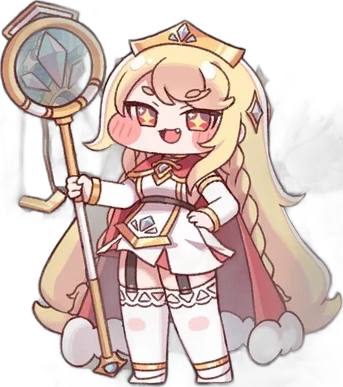
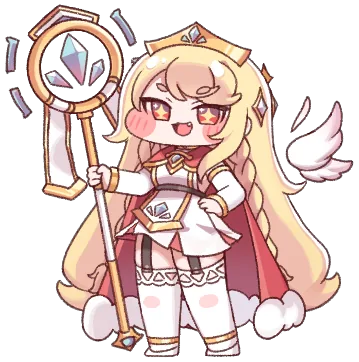
트릭컬 키 비교: 뷰어 스파인으로 사도·NPC 157명 그림과 게임 크기 기반 키 추정

diff --git a/games/trickcal-height/index.html b/games/trickcal-height/index.html
@@ -2,7 +2,7 @@
 <html lang="ko">
 <head>
 <meta charset="utf-8"><meta name="viewport" content="width=device-width,initial-scale=1">
-<title>트릭컬 사도 키 비교</title>
+<title>트릭컬 캐릭터 키 비교</title>
 <style>
 *{box-sizing:border-box}
 body{margin:0;font:15px/1.5 system-ui,"Malgun Gothic",sans-serif;background:#fff6e8;color:#3a2a1a}
@@ -10,8 +10,12 @@ header{padding:14px 16px;background:#ffcf6b;border-bottom:3px solid #e0a43a}
 h1{margin:0;font-size:22px}
 header p{margin:4px 0 0;font-size:13px}
 main{display:flex;flex-wrap:wrap;gap:16px;padding:16px}
-#side{flex:0 0 300px;background:#fff;border:2px solid #f0d3a0;border-radius:12px;padding:12px}
+#side{flex:0 0 320px;background:#fff;border:2px solid #f0d3a0;border-radius:12px;padding:12px}
 #side h2{font-size:16px;margin:4px 0 8px}
+#filt{display:flex;gap:6px;margin-bottom:6px}
+#filt input,#filt select{font:inherit;padding:5px;border:2px solid #f0d3a0;border-radius:8px;min-width:0}
+#filt input{flex:1}
+#list{max-height:430px;overflow-y:auto}
 .row{display:flex;align-items:center;gap:6px;padding:4px 0;border-bottom:1px dashed #f0d3a0}
 .row input[type=checkbox]{width:18px;height:18px}
 .row .nm{flex:1}
@@ -25,7 +29,7 @@ form label{grid-column:span 2;font-size:13px}
 #stage{flex:1 1 500px;background:#fff;border:2px solid #f0d3a0;border-radius:12px;padding:12px;min-width:300px}
 #controls{display:flex;gap:10px;align-items:center;flex-wrap:wrap;margin-bottom:8px}
 #controls button{font:inherit;padding:4px 10px;border:2px solid #f0d3a0;border-radius:8px;background:#fff;cursor:pointer}
-#board{position:relative;height:520px;overflow-x:auto;overflow-y:hidden;border-bottom:3px solid #8a6a40}
+#board{position:relative;height:560px;overflow-x:auto;overflow-y:hidden;border-bottom:3px solid #8a6a40}
 #grid{position:absolute;inset:0;pointer-events:none}
 .gl{position:absolute;left:0;right:0;border-top:1px dashed #e8dcc8;font-size:11px;color:#b09070;padding-left:2px}
 #people{position:absolute;left:44px;bottom:0;display:flex;align-items:flex-end;gap:18px;height:100%}
@@ -40,21 +44,23 @@ form label{grid-column:span 2;font-size:13px}
 </head>
 <body>
 <header>
-<h1>🍮 트릭컬 사도 키 비교</h1>
-<p>사도를 골라 나란히 세워 보세요. 키 숫자는 고칠 수 있고, 새 사도도 추가할 수 있어요. 그림 파일을 올리면 그 그림으로 세워 줘요.</p>
-<p style="font-size:11px;opacity:.7">사도 그림: 트릭컬 리바이브(EPIDGames) 사도 카드 그림, 나무위키에서 가져와 배경을 지웠어요. 팬 비교용이에요.</p>
+<h1>🍮 트릭컬 캐릭터 키 비교</h1>
+<p>사도·NPC를 골라 나란히 세워 보세요. 그림은 게임 속 크기 그대로라서 서로 크기 비교가 돼요. 키 숫자는 고칠 수 있고, 새 캐릭터도 추가할 수 있어요.</p>
+<p style="font-size:11px;opacity:.7">캐릭터 그림: 트릭컬 리바이브(EPIDGames) 로비 캐릭터를 <a href="https://viewer.dclnslde.com/">트릭컬 스파인 뷰어</a>의 파일로 그려 뽑았어요. 팬 비교용이에요.</p>
 </header>
 <main>
 <section id="side">
-  <h2>사도 목록</h2>
+  <h2>캐릭터 목록 <span class="tag" id="cnt"></span></h2>
+  <div id="filt"><input id="q" placeholder="이름 검색"><select id="grp"><option value="">전체</option><option>사도</option><option>NPC</option><option value="on">세운 것만</option><option value="mine">내가 추가한 것</option></select></div>
   <div id="list"></div>
+  <button id="alloff" style="margin-top:6px">모두 내리기</button>
   <form id="add">
-    <input id="nName" placeholder="이름 (예: 코미)" required>
+    <input id="nName" placeholder="새 캐릭터 이름" required>
     <input id="nH" type="number" min="10" max="400" step="0.1" placeholder="cm" required>
     <label>그림(선택): <input id="nImg" type="file" accept="image/*"></label>
     <button>+ 추가</button>
   </form>
-  <p class="note">'팬 추정' 표시: 트릭컬은 공식 키를 공개하지 않아서, 팬들이 게임 속 소품(총 길이 등)으로 계산한 값이에요(아카라이브·나무위키). 틀리면 숫자를 직접 고치세요. 바꾼 내용은 이 브라우저에 저장돼요.</p>
+  <p class="note">키는 전부 <b>추정</b>이에요. 트릭컬은 공식 키를 공개하지 않아서, 게임 속 캐릭터 크기(발끝~머리·모자·귀 꼭대기)를 재고, 팬들이 계산한 4명(에르핀 95·버터 96·네르 98·마요 101cm, 아카라이브·나무위키)에 맞춰 cm로 바꿨어요. 무기·뿔·머리장식이 위로 솟은 캐릭터는 실제보다 크게 나와요. 틀리면 숫자를 직접 고치세요(그림 크기도 따라 바뀌어요). 바꾼 내용은 이 브라우저에 저장돼요.</p>
   <button id="reset" style="margin-top:6px">처음 상태로</button>
 </section>
 <section id="stage">
@@ -68,25 +74,25 @@ form label{grid-column:span 2;font-size:13px}
 </section>
 </main>
 <script>
-const BASE=[
- {name:"에르핀",height:95,race:"요정",personality:"순수",fan:1},
- {name:"버터",height:96,race:"수인",personality:"활발",fan:1},
- {name:"네르",height:98,race:"요정",personality:"광기",fan:1},
- {name:"마요",height:101,race:"요정",personality:"광기",fan:1}
-];
-const COLORS={"순수":"#7ccf7a","냉정":"#6aa8ff","광기":"#e05a6a","활발":"#ffb347","우울":"#a98be0"};
-const KEY="tc-height-v1";
-let S;
-try{S=JSON.parse(localStorage.getItem(KEY))}catch(e){}
-if(!S)S={chars:BASE.map(c=>({...c,on:true})),me:""};
-const imgs={}; // name -> objectURL (세션 동안만)
-const ART={"에르핀":"img/erpin.webp","버터":"img/butter.webp","네르":"img/ner.webp"}; // 나무위키 사도 카드 그림, 배경 지움
-const save=()=>{try{localStorage.setItem(KEY,JSON.stringify(S))}catch(e){}};
+// 캐릭터 데이터: chars.json (게임 로비 스파인을 같은 배율로 그려 뽑은 그림 + 크기 측정값)
+// h: 추정 키(cm), img: 그림, ih: 그림 높이(px), u: 그림 1px이 몇 cm인지, fb: 그림 아래 끝이 발바닥보다 몇 px 아래인지
+const DEFAULT_ON=["에르핀","버터","네르","마요","골디","니펠","겨우살이"];
+const FAN={"에르핀":95,"버터":96,"네르":98,"마요":101}; // 팬 계산 값
+const COLORS={"사도":"#ffb347","NPC":"#7ccf7a"};
+const KEY="tc-height-v2";
 const $=id=>document.getElementById(id);
+let DATA=[],S=null;
+const imgs={}; // 직접 올린 그림: key -> objectURL (세션 동안만)
 
-function color(c){return COLORS[c.personality]||"#c9a46b"}
-function silhouette(c,px){
-  const w=px*0.42, col=color(c);
+const save=()=>{try{localStorage.setItem(KEY,JSON.stringify(S))}catch(e){}};
+const esc=s=>String(s).replace(/[&<>"]/g,m=>({"&":"&amp;","<":"&lt;",">":"&gt;",'"':"&quot;"}[m]));
+function fresh(){return {on:DATA.filter(c=>DEFAULT_ON.includes(c.name)).map(c=>c.id),h:{},mine:[],me:""}}
+// 화면에 쓰는 캐릭터 = 기본 데이터(키 수정 반영) + 내가 추가한 것
+function all(){return DATA.map(c=>({...c,h:S.h[c.id]??c.h,edited:S.h[c.id]!=null})).concat(S.mine)}
+const byId=id=>all().find(c=>c.id===id);
+
+function silhouette(col,px){
+  const w=px*0.42;
   return `<svg width="${w}" height="${px}" viewBox="0 0 42 100" preserveAspectRatio="none">
    <ellipse cx="21" cy="17" rx="15" ry="16" fill="${col}"/>
    <path d="M8 36 Q21 30 34 36 L38 74 L4 74 Z" fill="${col}" opacity=".85"/>
@@ -96,75 +102,110 @@ function silhouette(c,px){
 }
 
 function renderList(){
-  $("list").innerHTML=S.chars.map((c,i)=>`<div class="row">
-   <input type="checkbox" data-i="${i}" class="on" ${c.on?"checked":""}>
-   <span class="nm">${esc(c.name)} <span class="tag">${c.race?esc(c.race)+"·":""}${esc(c.personality||"")}${c.fan?" · 팬 추정":""}</span></span>
-   <input class="h" type="number" step="0.1" data-i="${i}" value="${c.height}">cm
-   <button data-i="${i}" class="del" title="지우기">✕</button></div>`).join("");
+  const q=$("q").value.trim(),g=$("grp").value;
+  let arr=all();
+  if(g==="on")arr=arr.filter(c=>S.on.includes(c.id));
+  else if(g==="mine")arr=arr.filter(c=>c.mine);
+  else if(g)arr=arr.filter(c=>c.g===g);
+  if(q)arr=arr.filter(c=>c.name.includes(q));
+  $("cnt").textContent=`${S.on.length}명 세움 / ${all().length}명`;
+  $("list").innerHTML=arr.map(c=>`<div class="row">
+   <input type="checkbox" data-id="${esc(c.id)}" class="on" ${S.on.includes(c.id)?"checked":""}>
+   <span class="nm">${esc(c.name)} <span class="tag">${esc(c.g||"")}${FAN[c.name]&&c.g==="사도"?` · 팬 계산 ${FAN[c.name]}`:""}${c.edited?" · 고침":""}</span></span>
+   <input class="h" type="number" step="0.1" data-id="${esc(c.id)}" value="${c.h}">cm
+   ${c.mine?`<button data-id="${esc(c.id)}" class="del" title="지우기">✕</button>`:""}</div>`).join("")||`<p class="note">찾는 캐릭터가 없어요.</p>`;
 }
-function esc(s){return String(s).replace(/[&<>"]/g,m=>({"&":"&amp;","<":"&lt;",">":"&gt;",'"':"&quot;"}[m]))}
 
 function people(){
-  const arr=S.chars.map((c,i)=>({...c,i})).filter(c=>c.on);
+  const arr=S.on.map(byId).filter(Boolean);
   const me=parseFloat(S.me);
-  if(me>0)arr.push({name:"나",height:me,me:true,i:-1});
+  if(me>0)arr.push({id:"__me",name:"나",h:me,me:true});
   return arr;
 }
 function renderBoard(){
-  const arr=people(), board=$("board"), H=board.clientHeight-40;
-  const max=Math.max(120,...arr.map(c=>c.height))*1.08;
+  const arr=people(),board=$("board"),H=board.clientHeight-44;
+  const max=Math.max(120,...arr.map(c=>c.h))*1.08;
   const pxPerCm=H/max;
   const step=max>250?50:max>120?20:10;
   let g="";
   for(let cm=0;cm<=max;cm+=step)g+=`<div class="gl" style="bottom:${cm*pxPerCm}px">${cm}</div>`;
   $("grid").innerHTML=g;
   $("people").innerHTML=arr.map(c=>{
-    const px=c.height*pxPerCm;
-    const fig=c.me?`<svg width="${px*0.3}" height="${px}" viewBox="0 0 30 100" preserveAspectRatio="none"><circle cx="15" cy="7" r="7" fill="#555"/><rect x="7" y="15" width="16" height="45" rx="5" fill="#777"/><rect x="8" y="58" width="6" height="42" fill="#555"/><rect x="16" y="58" width="6" height="42" fill="#555"/></svg>`
-      :(imgs[c.name]||ART[c.name])?`<img src="${imgs[c.name]||ART[c.name]}" alt="${esc(c.name)}" style="height:${px}px">`:silhouette(c,px);
-    return `<div class="p" draggable="${!c.me}" data-i="${c.i}"><div class="lab">${esc(c.name)}<br><small>${c.height}cm</small></div><div class="fig" style="height:${px}px">${fig}</div></div>`;
+    const px=c.h*pxPerCm;
+    let fig;
+    if(c.me)fig=`<svg width="${px*0.3}" height="${px}" viewBox="0 0 30 100" preserveAspectRatio="none"><circle cx="15" cy="7" r="7" fill="#555"/><rect x="7" y="15" width="16" height="45" rx="5" fill="#777"/><rect x="8" y="58" width="6" height="42" fill="#555"/><rect x="16" y="58" width="6" height="42" fill="#555"/></svg>`;
+    else if(imgs[c.id])fig=`<img src="${imgs[c.id]}" alt="${esc(c.name)}" style="height:${px}px">`;
+    else if(c.img){
+      // 그림을 키에 맞춰 늘이고 줄임: 원래 추정 키 대비 바뀐 비율만큼
+      const base=DATA.find(d=>d.id===c.id), sc=c.h/base.h;
+      const ppx=base.u*sc*pxPerCm; // 그림 1px → 화면 px
+      fig=`<img src="${c.img}" alt="${esc(c.name)}" loading="lazy" style="height:${c.ih*ppx}px;margin-bottom:${-c.fb*ppx}px;max-width:none">`;
+    }
+    else fig=silhouette(COLORS[c.g]||"#c9a46b",px);
+    return `<div class="p" draggable="${!c.me}" data-id="${esc(c.id)}"><div class="lab">${esc(c.name)}<br><small>${c.h}cm</small></div><div class="fig" style="height:${px}px">${fig}</div></div>`;
   }).join("");
-  const sorted=[...arr].sort((a,b)=>b.height-a.height);
-  $("diff").textContent=sorted.length>1?`제일 큰 ${sorted[0].name}(${sorted[0].height}cm)와 제일 작은 ${sorted.at(-1).name}(${sorted.at(-1).height}cm)의 차이: ${(sorted[0].height-sorted.at(-1).height).toFixed(1)}cm`:"";
+  const sorted=[...arr].sort((a,b)=>b.h-a.h);
+  $("diff").textContent=sorted.length>1?`제일 큰 ${sorted[0].name}(${sorted[0].h}cm)와 제일 작은 ${sorted.at(-1).name}(${sorted.at(-1).h}cm)의 차이: ${(sorted[0].h-sorted.at(-1).h).toFixed(1)}cm`:"";
 }
 function render(){renderList();renderBoard();save()}
 
+$("q").addEventListener("input",renderList);
+$("grp").addEventListener("change",renderList);
 $("list").addEventListener("change",e=>{
-  const i=+e.target.dataset.i;
-  if(e.target.classList.contains("on"))S.chars[i].on=e.target.checked;
-  if(e.target.classList.contains("h")){const v=parseFloat(e.target.value);if(v>0){S.chars[i].height=v;S.chars[i].fan=0}}
+  const id=e.target.dataset.id;if(!id)return;
+  if(e.target.classList.contains("on")){
+    if(e.target.checked){if(!S.on.includes(id))S.on.push(id)}else S.on=S.on.filter(x=>x!==id);
+  }
+  if(e.target.classList.contains("h")){
+    const v=parseFloat(e.target.value);if(!(v>0))return;
+    const m=S.mine.find(c=>c.id===id);
+    if(m)m.h=v;else S.h[id]=v;
+  }
   render();
 });
 $("list").addEventListener("click",e=>{
   if(!e.target.classList.contains("del"))return;
-  S.chars.splice(+e.target.dataset.i,1);render();
+  const id=e.target.dataset.id;
+  S.mine=S.mine.filter(c=>c.id!==id);S.on=S.on.filter(x=>x!==id);render();
 });
+$("alloff").onclick=()=>{S.on=[];render()};
 $("add").addEventListener("submit",e=>{
   e.preventDefault();
   const name=$("nName").value.trim(),h=parseFloat($("nH").value);
   if(!name||!(h>0))return;
+  const id="mine:"+name;
   const f=$("nImg").files[0];
-  if(f)imgs[name]=URL.createObjectURL(f);
-  const ex=S.chars.find(c=>c.name===name);
-  if(ex){ex.height=h;ex.on=true;ex.fan=0}else S.chars.push({name,height:h,race:"",personality:"",on:true});
+  if(f)imgs[id]=URL.createObjectURL(f);
+  const ex=S.mine.find(c=>c.id===id);
+  if(ex)ex.h=h;else S.mine.push({id,name,h,g:"추가",mine:true});
+  if(!S.on.includes(id))S.on.push(id);
   e.target.reset();render();
 });
-$("me").value=S.me||"";
 $("me").addEventListener("input",e=>{S.me=e.target.value;renderBoard();save()});
-$("sortH").onclick=()=>{S.chars.sort((a,b)=>a.height-b.height);render()};
-$("reset").onclick=()=>{if(confirm("추가·수정한 내용을 지우고 처음 상태로 돌릴까요?")){S={chars:BASE.map(c=>({...c,on:true})),me:""};$("me").value="";render()}};
+$("sortH").onclick=()=>{S.on.sort((a,b)=>byId(a).h-byId(b).h);render()};
+$("reset").onclick=()=>{if(confirm("추가·수정한 내용을 지우고 처음 상태로 돌릴까요?")){S=fresh();$("me").value="";render()}};
 
-let dragI=null;
-$("people").addEventListener("dragstart",e=>{const p=e.target.closest(".p");dragI=+p.dataset.i;p.classList.add("drag")});
+let dragId=null;
+$("people").addEventListener("dragstart",e=>{const p=e.target.closest(".p");dragId=p.dataset.id;p.classList.add("drag")});
 $("people").addEventListener("dragover",e=>e.preventDefault());
 $("people").addEventListener("drop",e=>{
-  e.preventDefault();const p=e.target.closest(".p");if(!p||dragI===null)return;
-  const to=+p.dataset.i;if(to<0||to===dragI)return;
-  const [m]=S.chars.splice(dragI,1);S.chars.splice(to,0,m);dragI=null;render();
+  e.preventDefault();const p=e.target.closest(".p");if(!p||dragId===null)return;
+  const to=S.on.indexOf(p.dataset.id),from=S.on.indexOf(dragId);
+  if(to<0||from<0||to===from)return;
+  S.on.splice(from,1);S.on.splice(to,0,dragId);dragId=null;render();
 });
-$("people").addEventListener("dragend",()=>{dragI=null;renderBoard()});
+$("people").addEventListener("dragend",()=>{dragId=null;renderBoard()});
 addEventListener("resize",renderBoard);
-render();
+
+fetch("chars.json").then(r=>r.json()).then(d=>{
+  DATA=d;
+  try{S=JSON.parse(localStorage.getItem(KEY))}catch(e){}
+  if(!S||!Array.isArray(S.on))S=fresh();
+  S.h=S.h||{};S.mine=S.mine||[];
+  S.on=S.on.filter(id=>byId(id));
+  $("me").value=S.me||"";
+  render();
+});
 </script>
 </body>
 </html>

diff --git a/index.html b/index.html
@@ -6,7 +6,7 @@
 <h1>비트 게임 작업실</h1>
 <p>디스코드에서 봇을 불러 만든 게임들.</p>
 <ul id="games">
-<li><a href="games/trickcal-height/">트릭컬 사도 키 비교</a></li>
+<li><a href="games/trickcal-height/">트릭컬 캐릭터 키 비교 (사도·NPC 158명)</a></li>
 <!-- 새 게임은 여기에 <li><a href="games/이름/">제목</a></li> 로 추가 -->
 </ul>
 </html>
